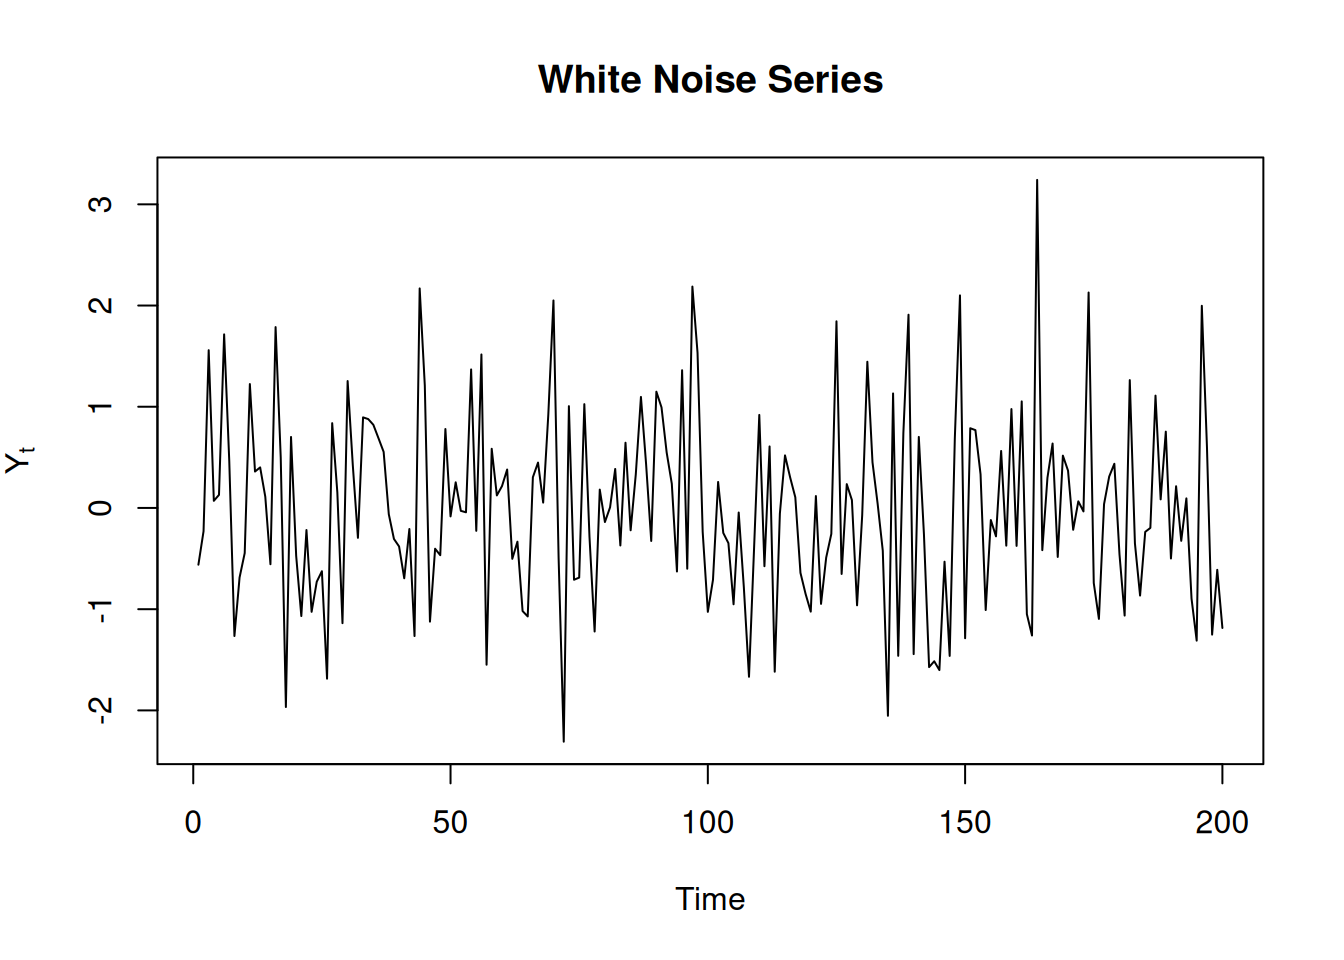
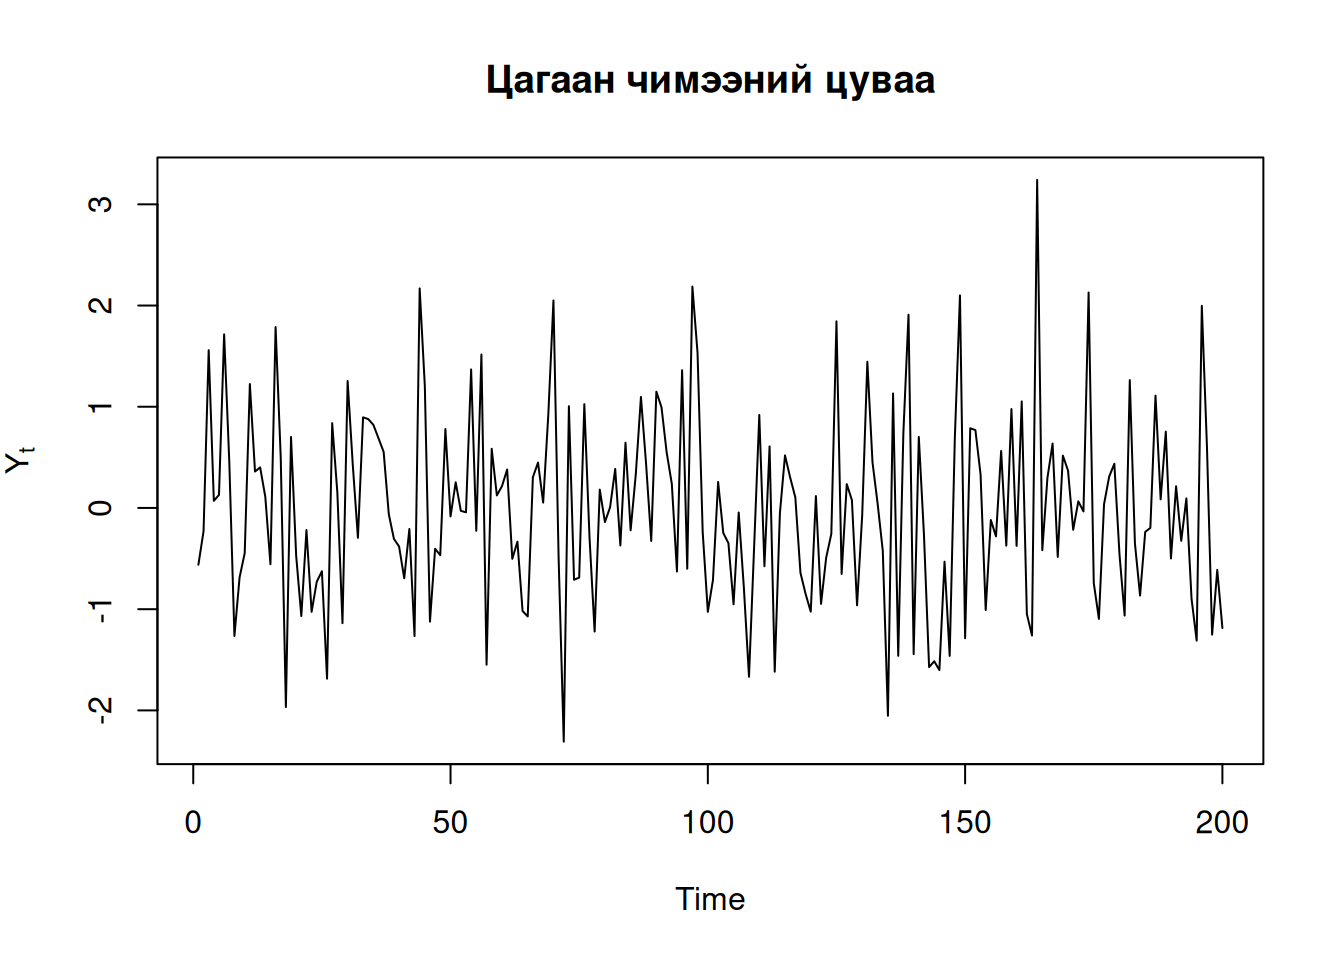
Built site for gh-pages

Changed region(s): [[0.3438, 0.0625, 0.7188, 0.125]]

diff --git a/01-white-noise.html b/01-white-noise.html
@@ -7,7 +7,7 @@
 <meta name="viewport" content="width=device-width, initial-scale=1.0, user-scalable=yes">
 
 
-<title>2&nbsp; White Noise – Хугацааны цуваа:R хэлний хэрэглээ</title>
+<title>2&nbsp; Цагаан чимээ (White Noise) – Хугацааны цуваа:R хэлний хэрэглээ</title>
 <style>
 /* Default styles provided by pandoc.
 ** See https://pandoc.org/MANUAL.html#variables-for-html for config info.
@@ -153,7 +153,7 @@ window.Quarto = {
       <button type="button" class="quarto-btn-toggle btn" data-bs-toggle="collapse" role="button" data-bs-target=".quarto-sidebar-collapse-item" aria-controls="quarto-sidebar" aria-expanded="false" aria-label="Toggle sidebar navigation" onclick="if (window.quartoToggleHeadroom) { window.quartoToggleHeadroom(); }">
         <i class="bi bi-layout-text-sidebar-reverse"></i>
       </button>
-        <nav class="quarto-page-breadcrumbs" aria-label="Breadcrumbs"><ol class="breadcrumb"><li class="breadcrumb-item"><a href="./01-white-noise.html"><span class="chapter-number">2</span>&nbsp; <span class="chapter-title">White Noise</span></a></li></ol></nav>
+        <nav class="quarto-page-breadcrumbs" aria-label="Breadcrumbs"><ol class="breadcrumb"><li class="breadcrumb-item"><a href="./01-white-noise.html"><span class="chapter-number">2</span>&nbsp; <span class="chapter-title">Цагаан чимээ (White Noise)</span></a></li></ol></nav>
         <a class="flex-grow-1" data-bs-toggle="collapse" data-bs-target=".quarto-sidebar-collapse-item" onclick="if (window.quartoToggleHeadroom) { window.quartoToggleHeadroom(); }">      
         </a>
       <button type="button" class="btn quarto-search-button" aria-label="Search" onclick="window.quartoOpenSearch();">
@@ -187,7 +187,7 @@ window.Quarto = {
         <li class="sidebar-item">
   <div class="sidebar-item-container"> 
   <a href="./01-white-noise.html" class="sidebar-item-text sidebar-link active">
- <span class="menu-text"><span class="chapter-number">2</span>&nbsp; <span class="chapter-title">White Noise</span></span></a>
+ <span class="menu-text"><span class="chapter-number">2</span>&nbsp; <span class="chapter-title">Цагаан чимээ (White Noise)</span></span></a>
   </div>
 </li>
         <li class="sidebar-item">
@@ -236,13 +236,13 @@ window.Quarto = {
     <h2 id="toc-title">Table of contents</h2>
    
   <ul>
-  <li><a href="#definition" id="toc-definition" class="nav-link active" data-scroll-target="#definition"><span class="header-section-number">2.1</span> Definition</a></li>
-  <li><a href="#properties" id="toc-properties" class="nav-link" data-scroll-target="#properties"><span class="header-section-number">2.2</span> Properties</a></li>
-  <li><a href="#simulation-in-r" id="toc-simulation-in-r" class="nav-link" data-scroll-target="#simulation-in-r"><span class="header-section-number">2.3</span> Simulation in R</a></li>
-  <li><a href="#autocorrelation-function" id="toc-autocorrelation-function" class="nav-link" data-scroll-target="#autocorrelation-function"><span class="header-section-number">2.4</span> Autocorrelation Function</a></li>
-  <li><a href="#lag-plot" id="toc-lag-plot" class="nav-link" data-scroll-target="#lag-plot"><span class="header-section-number">2.5</span> Lag Plot</a></li>
-  <li><a href="#example" id="toc-example" class="nav-link" data-scroll-target="#example"><span class="header-section-number">2.6</span> Example</a></li>
-  <li><a href="#exercise" id="toc-exercise" class="nav-link" data-scroll-target="#exercise"><span class="header-section-number">2.7</span> Exercise</a></li>
+  <li><a href="#тодорхойлолт" id="toc-тодорхойлолт" class="nav-link active" data-scroll-target="#тодорхойлолт"><span class="header-section-number">2.1</span> Тодорхойлолт</a></li>
+  <li><a href="#шинж-чанар" id="toc-шинж-чанар" class="nav-link" data-scroll-target="#шинж-чанар"><span class="header-section-number">2.2</span> Шинж чанар</a></li>
+  <li><a href="#r-дээрх-симуляц" id="toc-r-дээрх-симуляц" class="nav-link" data-scroll-target="#r-дээрх-симуляц"><span class="header-section-number">2.3</span> R дээрх симуляц</a></li>
+  <li><a href="#автокорреляцын-функц" id="toc-автокорреляцын-функц" class="nav-link" data-scroll-target="#автокорреляцын-функц"><span class="header-section-number">2.4</span> Автокорреляцын функц</a></li>
+  <li><a href="#хоцролтын-график" id="toc-хоцролтын-график" class="nav-link" data-scroll-target="#хоцролтын-график"><span class="header-section-number">2.5</span> Хоцролтын график</a></li>
+  <li><a href="#жишээ" id="toc-жишээ" class="nav-link" data-scroll-target="#жишээ"><span class="header-section-number">2.6</span> Жишээ</a></li>
+  <li><a href="#дасгал" id="toc-дасгал" class="nav-link" data-scroll-target="#дасгал"><span class="header-section-number">2.7</span> Дасгал</a></li>
   </ul>
 </nav>
     </div>
@@ -251,7 +251,7 @@ window.Quarto = {
 
 <header id="title-block-header" class="quarto-title-block default">
 <div class="quarto-title">
-<h1 class="title"><span class="chapter-number">2</span>&nbsp; <span class="chapter-title">White Noise</span></h1>
+<h1 class="title"><span class="chapter-number">2</span>&nbsp; <span class="chapter-title">Цагаан чимээ (White Noise)</span></h1>
 </div>
 
 
@@ -268,45 +268,48 @@ window.Quarto = {
 </header>
 
 
-<section id="definition" class="level2" data-number="2.1">
-<h2 data-number="2.1" class="anchored" data-anchor-id="definition"><span class="header-section-number">2.1</span> Definition</h2>
-<p>A stochastic process ({Y_t}) is called a white noise process if</p>
+<section id="тодорхойлолт" class="level2" data-number="2.1">
+<h2 data-number="2.1" class="anchored" data-anchor-id="тодорхойлолт"><span class="header-section-number">2.1</span> Тодорхойлолт</h2>
+<p>({Y_t}) стохастик процессийг цагаан чимээний процесс гэнэ, хэрэв</p>
 <p><span class="math display">\[
 E(Y_t)=0,
 \]</span></p>
 <p><span class="math display">\[
 Var(Y_t)=\sigma^2,
 \]</span></p>
-<p>and</p>
+<p>ба</p>
 <p><span class="math display">\[
 Cov(Y_t,Y_{t-k})=0,
-\qquad k\neq 0.
+\qquad k\neq 0
 \]</span></p>
-<p>We write</p>
+<p>болно.</p>
+<p>Бид үүнийг</p>
 <p><span class="math display">\[
-Y_t \sim WN(0,\sigma^2).
+Y_t \sim WN(0,\sigma^2)
 \]</span></p>
+<p>гэж бичнэ.</p>
 </section>
-<section id="properties" class="level2" data-number="2.2">
-<h2 data-number="2.2" class="anchored" data-anchor-id="properties"><span class="header-section-number">2.2</span> Properties</h2>
-<p>For a white noise process:</p>
+<section id="шинж-чанар" class="level2" data-number="2.2">
+<h2 data-number="2.2" class="anchored" data-anchor-id="шинж-чанар"><span class="header-section-number">2.2</span> Шинж чанар</h2>
+<p>Цагаан чимээний процессийн хувьд:</p>
 <ol type="1">
-<li>The mean is constant.</li>
-<li>The variance is constant.</li>
-<li>Observations are uncorrelated.</li>
+<li>Дундаж нь тогтмол.</li>
+<li>Дисперс нь тогтмол.</li>
+<li>Ажиглалтууд нь корреляцгүй.</li>
 </ol>
-<p>The autocorrelation function is</p>
+<p>Автокорреляцын функц нь</p>
 <p><span class="math display">\[
 \rho(0)=1,
 \]</span></p>
-<p>and</p>
+<p>ба</p>
 <p><span class="math display">\[
 \rho(k)=0,
-\qquad k\ne0.
+\qquad k\ne0
 \]</span></p>
+<p>байна.</p>
 </section>
-<section id="simulation-in-r" class="level2" data-number="2.3">
-<h2 data-number="2.3" class="anchored" data-anchor-id="simulation-in-r"><span class="header-section-number">2.3</span> Simulation in R</h2>
+<section id="r-дээрх-симуляц" class="level2" data-number="2.3">
+<h2 data-number="2.3" class="anchored" data-anchor-id="r-дээрх-симуляц"><span class="header-section-number">2.3</span> R дээрх симуляц</h2>
 <div class="cell">
 <div class="code-copy-outer-scaffold"><div class="sourceCode cell-code" id="cb1"><pre class="sourceCode r code-with-copy"><code class="sourceCode r"><span id="cb1-1"><a href="#cb1-1" aria-hidden="true" tabindex="-1"></a><span class="fu">set.seed</span>(<span class="dv">123</span>)</span>
 <span id="cb1-2"><a href="#cb1-2" aria-hidden="true" tabindex="-1"></a></span>
@@ -314,7 +317,7 @@ Y_t \sim WN(0,\sigma^2).
 <span id="cb1-4"><a href="#cb1-4" aria-hidden="true" tabindex="-1"></a></span>
 <span id="cb1-5"><a href="#cb1-5" aria-hidden="true" tabindex="-1"></a><span class="fu">plot.ts</span>(</span>
 <span id="cb1-6"><a href="#cb1-6" aria-hidden="true" tabindex="-1"></a>  y,</span>
-<span id="cb1-7"><a href="#cb1-7" aria-hidden="true" tabindex="-1"></a>  <span class="at">main=</span><span class="st">"White Noise Series"</span>,</span>
+<span id="cb1-7"><a href="#cb1-7" aria-hidden="true" tabindex="-1"></a>  <span class="at">main=</span><span class="st">"Цагаан чимээний цуваа"</span>,</span>
 <span id="cb1-8"><a href="#cb1-8" aria-hidden="true" tabindex="-1"></a>  <span class="at">ylab=</span><span class="fu">expression</span>(Y[t])</span>
 <span id="cb1-9"><a href="#cb1-9" aria-hidden="true" tabindex="-1"></a>)</span></code></pre></div><button title="Copy to Clipboard" class="code-copy-button"><i class="bi"></i></button></div>
 <div class="cell-output-display">
@@ -326,12 +329,12 @@ Y_t \sim WN(0,\sigma^2).
 </div>
 </div>
 </section>
-<section id="autocorrelation-function" class="level2" data-number="2.4">
-<h2 data-number="2.4" class="anchored" data-anchor-id="autocorrelation-function"><span class="header-section-number">2.4</span> Autocorrelation Function</h2>
+<section id="автокорреляцын-функц" class="level2" data-number="2.4">
+<h2 data-number="2.4" class="anchored" data-anchor-id="автокорреляцын-функц"><span class="header-section-number">2.4</span> Автокорреляцын функц</h2>
 <div class="cell">
 <div class="code-copy-outer-scaffold"><div class="sourceCode cell-code" id="cb2"><pre class="sourceCode r code-with-copy"><code class="sourceCode r"><span id="cb2-1"><a href="#cb2-1" aria-hidden="true" tabindex="-1"></a><span class="fu">acf</span>(</span>
 <span id="cb2-2"><a href="#cb2-2" aria-hidden="true" tabindex="-1"></a>  y,</span>
-<span id="cb2-3"><a href="#cb2-3" aria-hidden="true" tabindex="-1"></a>  <span class="at">main=</span><span class="st">"ACF of White Noise"</span></span>
+<span id="cb2-3"><a href="#cb2-3" aria-hidden="true" tabindex="-1"></a>  <span class="at">main=</span><span class="st">"Цагаан чимээний ACF"</span></span>
 <span id="cb2-4"><a href="#cb2-4" aria-hidden="true" tabindex="-1"></a>)</span></code></pre></div><button title="Copy to Clipboard" class="code-copy-button"><i class="bi"></i></button></div>
 <div class="cell-output-display">
 <div>
@@ -341,10 +344,10 @@ Y_t \sim WN(0,\sigma^2).
 </div>
 </div>
 </div>
-<p>For a white noise process, the sample autocorrelations fluctuate randomly around zero.</p>
+<p>Цагаан чимээний процессийн хувьд түүврийн автокорреляцууд тэг орчимд санамсаргүйгээр хэлбэлздэг.</p>
 </section>
-<section id="lag-plot" class="level2" data-number="2.5">
-<h2 data-number="2.5" class="anchored" data-anchor-id="lag-plot"><span class="header-section-number">2.5</span> Lag Plot</h2>
+<section id="хоцролтын-график" class="level2" data-number="2.5">
+<h2 data-number="2.5" class="anchored" data-anchor-id="хоцролтын-график"><span class="header-section-number">2.5</span> Хоцролтын график</h2>
 <div class="cell">
 <div class="code-copy-outer-scaffold"><div class="sourceCode cell-code" id="cb3"><pre class="sourceCode r code-with-copy"><code class="sourceCode r"><span id="cb3-1"><a href="#cb3-1" aria-hidden="true" tabindex="-1"></a><span class="fu">plot</span>(</span>
 <span id="cb3-2"><a href="#cb3-2" aria-hidden="true" tabindex="-1"></a>  <span class="at">x =</span> y[<span class="sc">-</span><span class="dv">200</span>],</span>
@@ -361,25 +364,25 @@ Y_t \sim WN(0,\sigma^2).
 </div>
 </div>
 </div>
-<p>The lag plot exhibits no systematic pattern.</p>
+<p>Хоцролтын график ямар нэг системтэй хэв маяг харуулахгүй.</p>
 </section>
-<section id="example" class="level2" data-number="2.6">
-<h2 data-number="2.6" class="anchored" data-anchor-id="example"><span class="header-section-number">2.6</span> Example</h2>
-<p>Suppose</p>
+<section id="жишээ" class="level2" data-number="2.6">
+<h2 data-number="2.6" class="anchored" data-anchor-id="жишээ"><span class="header-section-number">2.6</span> Жишээ</h2>
+<p>Бүх (t)-ийн хувьд харилцан хамааралгүйгээр</p>
 <p><span class="math display">\[
-Y_t \sim N(0,1),
+Y_t \sim N(0,1)
 \]</span></p>
-<p>independently for all <span class="math inline">\(t\)</span>.</p>
-<p>Then <span class="math inline">\(\{Y_t\}\)</span> is white noise.</p>
+<p>гэж үзье.</p>
+<p>Тэгвэл ({Y_t}) нь цагаан чимээ байна.</p>
 </section>
-<section id="exercise" class="level2" data-number="2.7">
-<h2 data-number="2.7" class="anchored" data-anchor-id="exercise"><span class="header-section-number">2.7</span> Exercise</h2>
+<section id="дасгал" class="level2" data-number="2.7">
+<h2 data-number="2.7" class="anchored" data-anchor-id="дасгал"><span class="header-section-number">2.7</span> Дасгал</h2>
 <ol type="1">
-<li>Generate a white noise series of length 500.</li>
-<li>Plot the series.</li>
-<li>Plot the ACF.</li>
-<li>Produce a lag-1 scatterplot.</li>
-<li>Explain whether the observations appear correlated.</li>
+<li>500 урттай цагаан чимээний цуваа үүсгэ.</li>
+<li>Цувааг графикаар зур.</li>
+<li>ACF-ийг зур.</li>
+<li>Лаг-1 сарнилын графикийг гарга.</li>
+<li>Ажиглалтууд корреляцтай харагдаж байгаа эсэхийг тайлбарла.</li>
 </ol>
 
 

diff --git a/02-stationarity.html b/02-stationarity.html
@@ -158,7 +158,7 @@ pre > code.sourceCode > span > a:first-child::before { text-decoration: underlin
         <li class="sidebar-item">
   <div class="sidebar-item-container"> 
   <a href="./01-white-noise.html" class="sidebar-item-text sidebar-link">
- <span class="menu-text"><span class="chapter-number">2</span>&nbsp; <span class="chapter-title">White Noise</span></span></a>
+ <span class="menu-text"><span class="chapter-number">2</span>&nbsp; <span class="chapter-title">Цагаан чимээ (White Noise)</span></span></a>
   </div>
 </li>
         <li class="sidebar-item">
@@ -913,8 +913,8 @@ pre > code.sourceCode > span > a:first-child::before { text-decoration: underlin
   </script>
 <nav class="page-navigation" aria-label="Page">
   <div class="nav-page nav-page-previous">
-      <a href="./01-white-noise.html" class="pagination-link" aria-label="White Noise">
-        <i class="bi bi-arrow-left-short"></i> <span class="nav-page-text"><span class="chapter-number">2</span>&nbsp; <span class="chapter-title">White Noise</span></span>
+      <a href="./01-white-noise.html" class="pagination-link" aria-label="Цагаан чимээ (White Noise)">
+        <i class="bi bi-arrow-left-short"></i> <span class="nav-page-text"><span class="chapter-number">2</span>&nbsp; <span class="chapter-title">Цагаан чимээ (White Noise)</span></span>
       </a>          
   </div>
   <div class="nav-page nav-page-next">

diff --git a/index.html b/index.html
@@ -158,7 +158,7 @@ pre > code.sourceCode > span > a:first-child::before { text-decoration: underlin
         <li class="sidebar-item">
   <div class="sidebar-item-container"> 
   <a href="./01-white-noise.html" class="sidebar-item-text sidebar-link">
- <span class="menu-text"><span class="chapter-number">2</span>&nbsp; <span class="chapter-title">White Noise</span></span></a>
+ <span class="menu-text"><span class="chapter-number">2</span>&nbsp; <span class="chapter-title">Цагаан чимээ (White Noise)</span></span></a>
   </div>
 </li>
         <li class="sidebar-item">
@@ -756,8 +756,8 @@ pre > code.sourceCode > span > a:first-child::before { text-decoration: underlin
   <div class="nav-page nav-page-previous">
   </div>
   <div class="nav-page nav-page-next">
-      <a href="./01-white-noise.html" class="pagination-link" aria-label="White Noise">
-        <span class="nav-page-text"><span class="chapter-number">2</span>&nbsp; <span class="chapter-title">White Noise</span></span> <i class="bi bi-arrow-right-short"></i>
+      <a href="./01-white-noise.html" class="pagination-link" aria-label="Цагаан чимээ (White Noise)">
+        <span class="nav-page-text"><span class="chapter-number">2</span>&nbsp; <span class="chapter-title">Цагаан чимээ (White Noise)</span></span> <i class="bi bi-arrow-right-short"></i>
       </a>
   </div>
 </nav>

diff --git a/03-acf.html b/03-acf.html
@@ -158,7 +158,7 @@ pre > code.sourceCode > span > a:first-child::before { text-decoration: underlin
         <li class="sidebar-item">
   <div class="sidebar-item-container"> 
   <a href="./01-white-noise.html" class="sidebar-item-text sidebar-link">
- <span class="menu-text"><span class="chapter-number">2</span>&nbsp; <span class="chapter-title">White Noise</span></span></a>
+ <span class="menu-text"><span class="chapter-number">2</span>&nbsp; <span class="chapter-title">Цагаан чимээ (White Noise)</span></span></a>
   </div>
 </li>
         <li class="sidebar-item">

diff --git a/04-pacf.html b/04-pacf.html
@@ -158,7 +158,7 @@ pre > code.sourceCode > span > a:first-child::before { text-decoration: underlin
         <li class="sidebar-item">
   <div class="sidebar-item-container"> 
   <a href="./01-white-noise.html" class="sidebar-item-text sidebar-link">
- <span class="menu-text"><span class="chapter-number">2</span>&nbsp; <span class="chapter-title">White Noise</span></span></a>
+ <span class="menu-text"><span class="chapter-number">2</span>&nbsp; <span class="chapter-title">Цагаан чимээ (White Noise)</span></span></a>
   </div>
 </li>
         <li class="sidebar-item">

diff --git a/07-arma.html b/07-arma.html
@@ -157,7 +157,7 @@ pre > code.sourceCode > span > a:first-child::before { text-decoration: underlin
         <li class="sidebar-item">
   <div class="sidebar-item-container"> 
   <a href="./01-white-noise.html" class="sidebar-item-text sidebar-link">
- <span class="menu-text"><span class="chapter-number">2</span>&nbsp; <span class="chapter-title">White Noise</span></span></a>
+ <span class="menu-text"><span class="chapter-number">2</span>&nbsp; <span class="chapter-title">Цагаан чимээ (White Noise)</span></span></a>
   </div>
 </li>
         <li class="sidebar-item">

diff --git a/05-ar1.html b/05-ar1.html
@@ -187,7 +187,7 @@ window.Quarto = {
         <li class="sidebar-item">
   <div class="sidebar-item-container"> 
   <a href="./01-white-noise.html" class="sidebar-item-text sidebar-link">
- <span class="menu-text"><span class="chapter-number">2</span>&nbsp; <span class="chapter-title">White Noise</span></span></a>
+ <span class="menu-text"><span class="chapter-number">2</span>&nbsp; <span class="chapter-title">Цагаан чимээ (White Noise)</span></span></a>
   </div>
 </li>
         <li class="sidebar-item">

diff --git a/06-ma1.html b/06-ma1.html
@@ -187,7 +187,7 @@ window.Quarto = {
         <li class="sidebar-item">
   <div class="sidebar-item-container"> 
   <a href="./01-white-noise.html" class="sidebar-item-text sidebar-link">
- <span class="menu-text"><span class="chapter-number">2</span>&nbsp; <span class="chapter-title">White Noise</span></span></a>
+ <span class="menu-text"><span class="chapter-number">2</span>&nbsp; <span class="chapter-title">Цагаан чимээ (White Noise)</span></span></a>
   </div>
 </li>
         <li class="sidebar-item">
